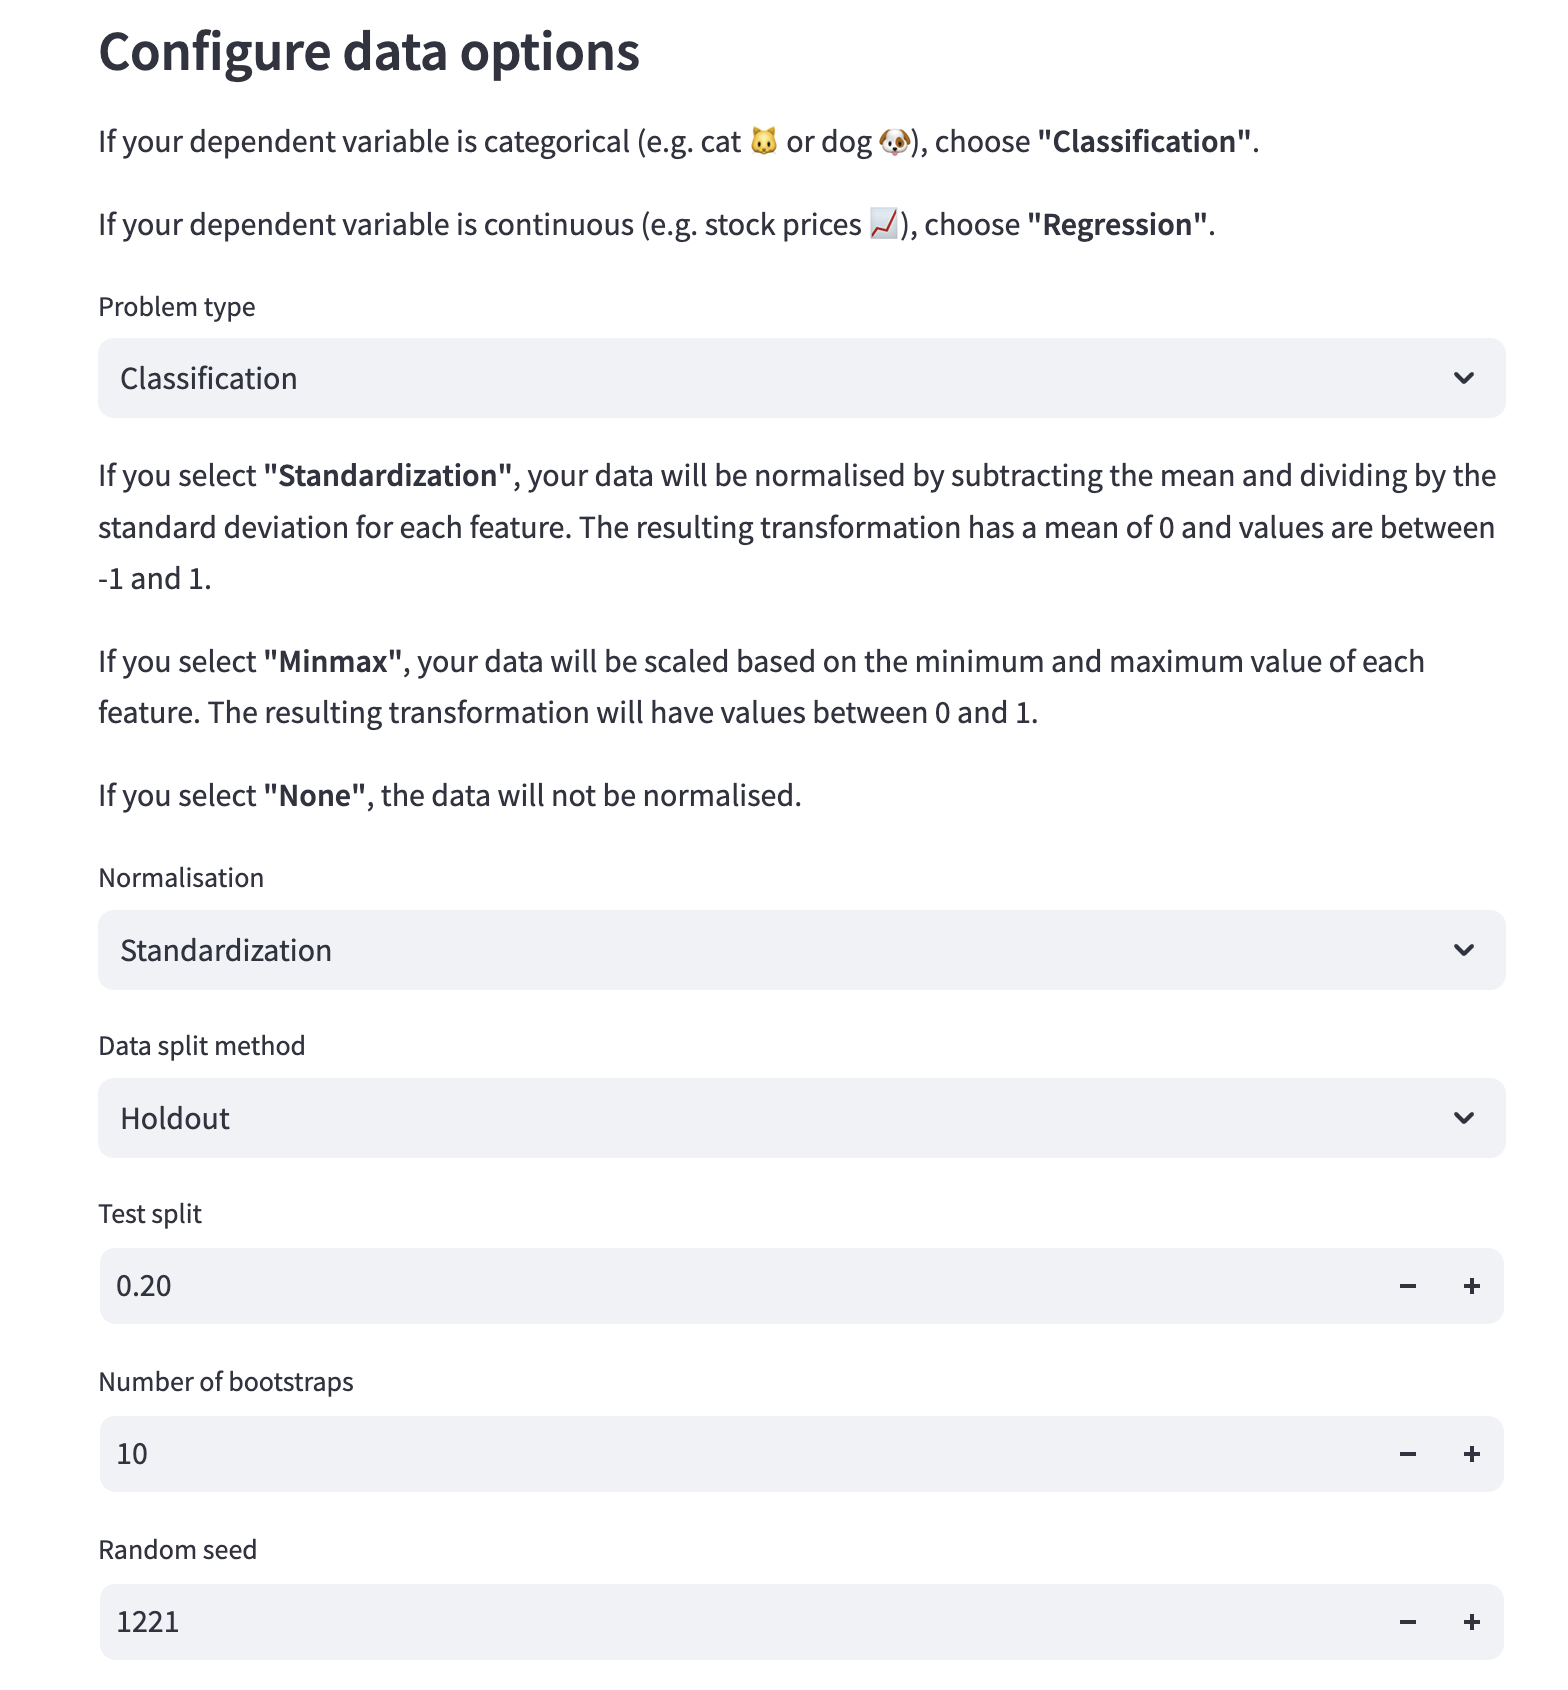
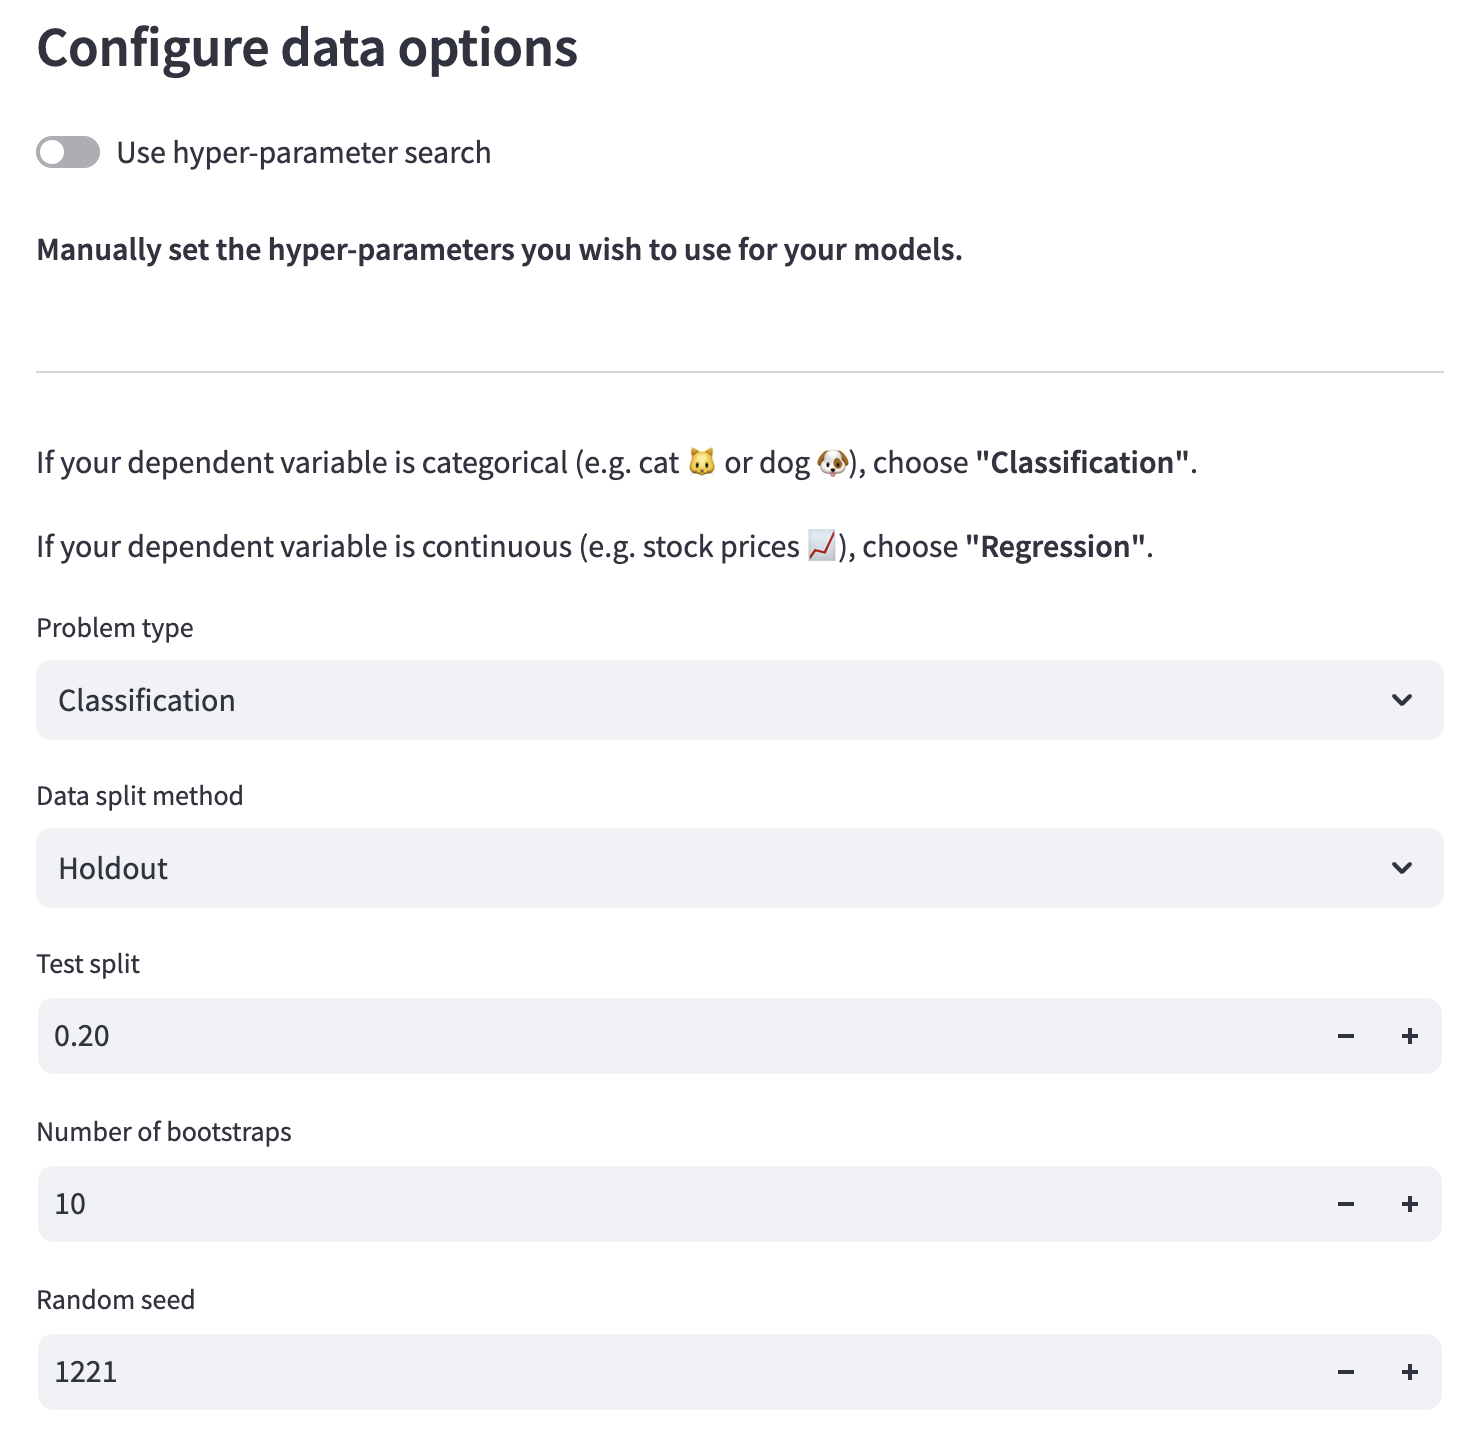
Docs/spell checking (#268)
* check data viz page docs

* swap create exp and data viz pages order

* remove normalisation from create experiment page

* move warning

* update config-data

* update plot-preview

* fix transformations enum

* preprocessing page

* add preprocessing to index

* update view experiments image

* update images

* bump version to 1.1.0

* add note about preprocessed file being saved

* fuzzy importance not FS

* default colour map viridis

* regression is default problem type

* colour map explanation

diff --git a/biofefi/options/enums.py b/biofefi/options/enums.py
@@ -112,6 +112,7 @@ class SvmKernels(StrEnum):
 
 
 class Normalisations(StrEnum):
+    # changing spelling to UK here would make this not backwards-compatible
     Standardization = "standardization"
     MinMax = "minmax"
     NoNormalisation = "none"  # field name can't be None
@@ -121,7 +122,8 @@ class TransformationsY(StrEnum):
     Log = "log"
     Sqrt = "square-root"
     MinMaxNormalisation = "minmax"
-    StandardisationNormalisation = "standardisation"
+    # changing spelling to UK here would make this not backwards-compatible
+    StandardisationNormalisation = "standardization"  # to match normalisations
     NoTransformation = "none"
 
 

diff --git a/biofefi/components/configuration.py b/biofefi/components/configuration.py
@@ -62,6 +62,7 @@ def plot_options_box():
             "Colour map",
             options=plt.colormaps(),
             key=PlotOptionKeys.ColourMap,
+            index=3,
             disabled=not save,
         )
         font = st.selectbox(
@@ -179,6 +180,7 @@ def execution_options_box_auto():
         "Problem type",
         PROBLEM_TYPES,
         key=ExecutionStateKeys.ProblemType,
+        index=1,
     )
     test_split = st.number_input(
         "Test split",

diff --git a/docs/users/data_preprocessing.md b/docs/users/data_preprocessing.md
@@ -1,0 +1,43 @@
+# Preprocessing your data
+BioFEFI allows you preprocess your data before training any models. This includes normalising your data, removing low variance features or highly correlated features.
+
+![Data preprocessing page](../_static/data-preprocessing-page.png)
+
+## Normalisation
+- Normalisation Method for Independent Variables
+
+    If you select **"Standardization"**, your independent variables will be normalised by subtracting the mean and dividing by the standard deviation for each feature. The resulting transformation has a mean of 0 and values are between -1 and 1.
+
+    If you select **"Minmax"**, your independent variables will be scaled based on the minimum and maximum value of each feature. The resulting transformation will have values between 0 and 1.
+
+    If you select **"None"**, the data will not be normalised.
+
+- Transformation Method for Dependent Variable
+
+    If you select **Log**, the dependent variable will transformed with the natural logarithm (`ln` / `log e`). If the minimum of your dependent variable is less than or equal to 0, it is first transformed by `(y - min(y)) + 1` to make all values positive, followed by the natural logarithm.
+
+    If you select **Square-root**, the dependent variable is transformed by taking the sqare root of each value. If the minimum of your dependent variable is less than 0, it is first transformed by `y - min(y)` to make all values at least 0, followed by the square root.
+
+    If you select **"Minmax"**, your dependent variable will be scaled based on the minimum and maximum value of each feature. The resulting transformation will have values between 0 and 1.
+
+    If you select **"Standardization"**, your dependent variable will be normalised by subtracting the mean and dividing by the standard deviation for each feature. The resulting transformation has a mean of 0 and values are between -1 and 1.
+
+## Feature selection
+- Remove low variance features
+
+    To remove features with low variance, click the checkbox labelled **"Variance threshold"**, then adjust the threshold between 0 and 1. **(Default: 0.10)**
+
+- Remove highly correlated features
+
+    To remove features that are highly correlated with one another, click the checkbox labelled **"Correlation threshold"**, then adjust the threshold between 0 and 1. **(Default: 0.80)**
+
+- Lasso feature selection
+
+    Select features using the [Lasso algorith](https://en.wikipedia.org/wiki/Lasso_(statistics)). Click the checkbox labelled **"Lasso Feature Selection"** then set the regularisation term which be **non-negative**. **(Default: 0.05)**
+
+## Run feature selection
+Once you have configured your preprocessing measures, click **"Run Data Preprocessing"**. You will see a summary of your preprocessed data below.
+
+After preprocessing is completed, a copy of your preprocessed data is save to your experiment with the name `<data file>_preprocessed.csv`. E.g. `BacterialAttachment.csv` would produce a file called `BacterialAttachment_preprocessed.csv`. This data will be used for model training, feature importance.
+
+![Data preprocessing page](../_static/preprocessing-results.png)

diff --git a/docs/users/create_experiment.md b/docs/users/create_experiment.md
@@ -22,21 +22,13 @@ In BioFEFI, you must create an experiment before you can train models and perfor
 
     If your dependent variable is continuous (e.g. stock prices 📈), choose **"Regression"**.
 
-- Select how you wish to normalise your data.
-
-    If you select **"Standardization"**, your data will be normalised by subtracting the mean and dividing by the standard deviation for each feature. The resulting transformation has a mean of 0 and values are between -1 and 1.
-
-    If you select **"Minmax"**, your data will be scaled based on the minimum and maximum value of each feature. The resulting transformation will have values between 0 and 1.
-
-    If you select **"None"**, the data will not be normalised.
-
 - Select your data split method
+
+    **Data split methods are not available if using automatic hyper-parameter search.**
 
     **"Holdout"** will create a train-test split with a portion of the data randomly held out to test the model, which will be trained on the remaining portion of the data.
 
     **"K-fold"** stands for *K-fold cross validation*. The test data is split from the training data, then the training data is split into *k*-folds. The folds are used to find the model parameters and the test set is used to evaluate the models.
-
-    **Data split methods are not available if using automatic hyper-parameter search.**
 
 - Specify a test split size. This is a number between 0 and 1. The default is 0.20, i.e. 20% of the data will be used is the test data and 80% for training.
 
@@ -98,6 +90,11 @@ In BioFEFI, you must create an experiment before you can train models and perfor
   - seaborn-v0_8-white
   - seaborn-v0_8-whitegrid
   - tableau-colorblind10
+
+- Colour map. Defaults to "viridis"
+
+  Options:
+  - The list is very long but the full reference can be viewed [here](https://matplotlib.org/stable/gallery/color/colormap_reference.html).
 
 - Font. Defaults to "sans-serif".
 

diff --git a/docs/users/data_visualisation.md b/docs/users/data_visualisation.md
@@ -1,5 +1,5 @@
 # Data Visualisation
-The **Data Visualisation** page allows you to explore and analyze your data using a variety of visual tools. This helps in understanding data distributions, correlations, and feature interactions.
+The **Data Visualisation** page allows you to explore and analyse your data using a variety of visual tools. This helps in understanding data distributions, correlations, and feature interactions.
 
 ![Data Visualisation Page](../_static/data-visualisation-page.png)
 

diff --git a/docs/users/feature_importance.md b/docs/users/feature_importance.md
@@ -57,7 +57,7 @@ These methods are used to interpret feature importance on a *per prediction* bas
 
 ![Additional feature importance configuration](../_static/additional-fi-config.png)
 
-## Fuzzy feature selection
+## Fuzzy feature importance
 Convert features to fuzzy features and then perform feature importance analyses on the fuzzy features. To use this feature, you must first configure ensemble and local feature importance methods.
 
 - Number of features for fuzzy interpretation

diff --git a/docs/index.rst b/docs/index.rst
@@ -12,8 +12,9 @@ Welcome to BioFEFI's documentation!
 
    users/index.md
    users/installation.md
-   users/data_visualisation.md
    users/create_experiment.md
+   users/data_preprocessing.md
+   users/data_visualisation.md
    users/train_models.md
    users/feature_importance.md
    users/view_experiments.md
